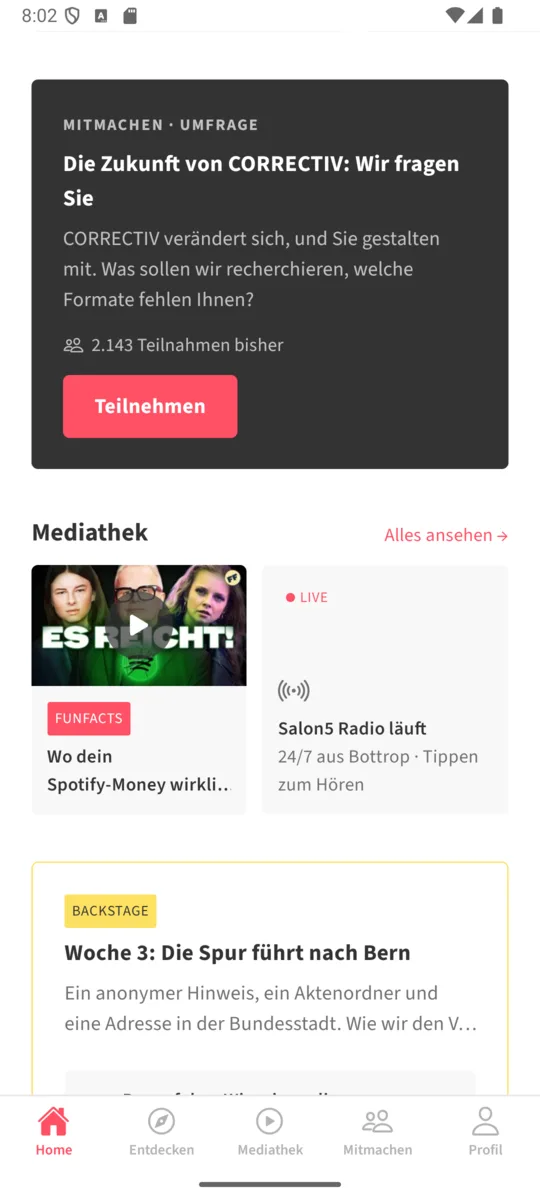
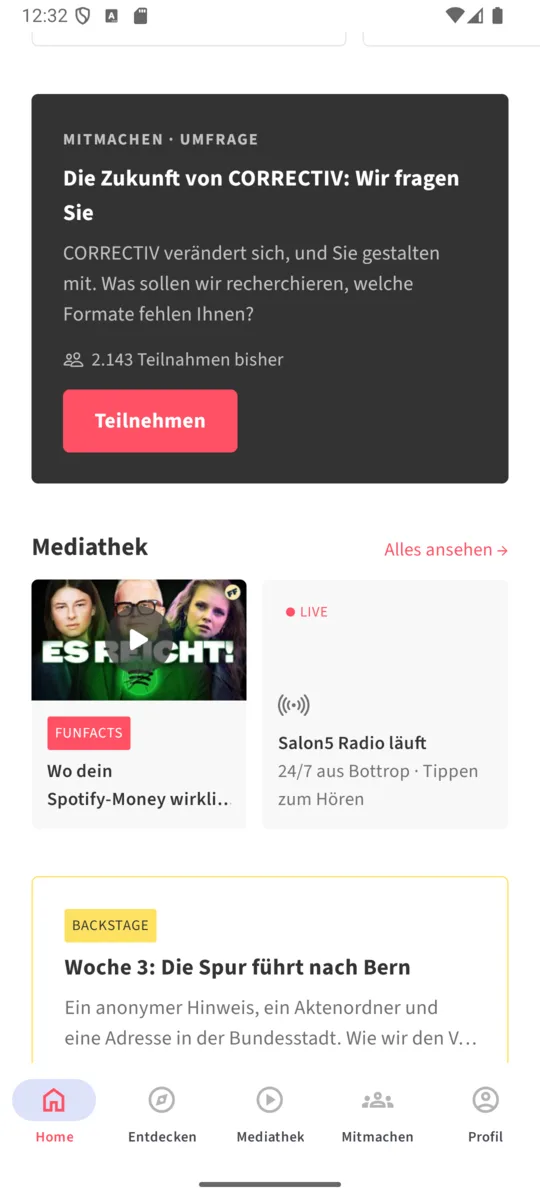
Re-shoot the screen set, and add the web tab bar beside it
The tab bar changed on Android, so every tab screen in screens/android/ was
stale at the bottom edge. Re-shot all 29 from the release APK of the previous
commit on Medium_Phone_API_36; both tours ran clean with no MISS.

screens/web/ is new and holds the five tab screens at the same step names. ADR
0013 decides that the tab bar is deliberately NOT the same on the two platforms,
and a claim like that should be checkable by looking rather than by reading the
ADR. Five shots, not 29: the rest differs only in the ways screens/README.md
already lists, and a second full set would be 24 pictures nobody compares.

ADR 0013 is updated to say what the emulator round found rather than what it
feared. It shipped warning that the native half was unrun and that the Android
mini player position should be treated as unverified; that warning was right,
both faults were in that half, and one screenshot of a playing track cashed it.
The section that promised verification now reports it, and iOS moves to being
the whole of what is left unrun — which matters more than it did, because
BottomAccessory exists only there.

Claude-Session: https://claude.ai/code/session_016bcAFK46Uq7XbLNA119N9r

diff --git a/adr/0013-native-tabs-and-a-web-tab-bar-of-its-own.md b/adr/0013-native-tabs-and-a-web-tab-bar-of-its-own.md
@@ -1,6 +1,7 @@
 # ADR 0013 — Native tabs on the phone, and a web tab bar of its own
 
-Status: accepted, 2026-08-28. Not yet verified on a device — see the last section.
+Status: accepted, 2026-08-28. Verified on an Android emulator 2026-08-29, which found
+two faults in the first version of it; iOS remains unrun. See the last two sections.
 
 ## Context
 
@@ -64,14 +65,21 @@ ours.
 
 ## Consequences
 
-**The Android height constant changed meaning, and is now a guess.** It used to be a
-value we SET — the drawn bar took `height: 56 + insets.bottom` from it, so the bar
+**The Android height constant changed meaning, and had to be measured.** It used to be
+a value we SET — the drawn bar took `height: 56 + insets.bottom` from it, so the bar
 and the mini player could not disagree. A native bar sizes itself, and native tabs
 expose no height: `useBottomTabBarHeight` belongs to the JS tabs only, and the
-documentation says plainly that layout information is unavailable. The same 56 now
-means "what Material's `BottomNavigationView` is expected to be", which is what
-react-native-screens renders underneath. If it is wrong, the mini player overlaps the
-tab bar, and nothing in `npm run check` can see it.
+documentation says plainly that layout information is unavailable.
+
+Carrying the 56 across looked free and was not. Material 3's navigation bar is
+**80dp**; 56 is the Material 2 figure, and the mini player sat 11px inside the bar
+with the selected item's pill clipped underneath it. It is 80 now, measured at
+y=2126..2337 on `Medium_Phone_API_36` at 420dpi — 211px, so 80.4dp — which agrees
+with the Material spec rather than merely with one device.
+
+Two things still move it and neither is reachable from JS: a large system font scale,
+and `labelVisibilityMode`. Under Material's `auto` the same bar measured 60dp, because
+dropping the labels makes it shorter.
 
 **All five tabs now mount eagerly.** Native tabs do not support lazy loading. The JS
 tabs mounted a tab on first visit; five screens now mount at startup, including the
@@ -83,6 +91,16 @@ slower. Measuring that needs a device.
 the app has exactly five. A sixth is a redesign, not an edit. The triggers are
 written out rather than mapped so that this is visible where someone would add one.
 
+**Every destination keeps its label, which took saying so.** Material's default `auto`
+drops the labels of unselected items once there are four or more — with five tabs that
+left four of five destinations as an icon and nothing else, and `Entdecken` (a compass)
+and `Mitmachen` (three figures) are the two nobody can name from the glyph.
+`labelVisibilityMode="labeled"` is one of Material's own four modes and what Material
+3's navigation-bar guidance asks for; `auto`'s behaviour is the Material 2 rule it
+inherited. So this is still the platform's bar, configured — the same line this ADR
+draws for colour. It also keeps the two tab bars legible in the same way, which is
+worth something when they are meant to be one product.
+
 **The API is alpha.** `unstable-native-tabs` is the real import path, and Expo says
 the API is subject to change. The web half of this decision is insulated from that;
 the native half is not.
@@ -92,18 +110,39 @@ screen is a `FlatList` today — [ADR 0012](0012-a-list-virtualizer-for-the-unbo
 converted two pushed routes, not tab roots — so this costs nothing yet. It is a
 constraint on where the next virtualized list may go.
 
+## What the emulator round found
+
+This decision shipped its first version with a warning that none of the native half
+had been run, and that the Android mini player position should be treated as
+unverified. Both faults it then found were in exactly that half, and neither was
+visible to `npm run check`, to the typechecker, or to the web export:
+
+- **The mini player sat inside the tab bar**, clipping the selected item's pill,
+  because 56 was Material 2's height and the bar is 80dp.
+- **Four of five destinations had no label**, because Material's `auto` drops them
+  past three items.
+
+Both are fixed above. The point worth keeping is that the warning was right and
+specific, and the thing that cashed it was one screenshot of a playing track. This is
+what [TROUBLESHOOTING.md](../TROUBLESHOOTING.md) means by a green check not being
+evidence, and it is the same shape as every other entry in
+[`screens/`](../screens/README.md): the finding survived a green build, a green
+typecheck and a green test run.
+
+The set in [`screens/android/`](../screens/) was re-shot from a release APK afterwards,
+and [`screens/web/`](../screens/web/) holds the five tab screens beside it, so the one
+part of the app this ADR deliberately makes different on the two platforms can be
+compared by looking.
+
 ## What this has not delivered
 
-**None of the native half has been run.** The web export was rebuilt and looked at,
-in both appearance settings, and it is unchanged — which verifies only that the
-platform split is clean and that the `js-tabs` import swap is transparent. The native
-tab bar, the SF Symbols, the Material Symbols, the `BottomAccessory` and the Android
-height constant have been read from the installed source and typechecked against
-`sf-symbols-typescript` and `expo-symbols`, and that is all. **A green check is not
-evidence here in exactly the way [TROUBLESHOOTING.md](../TROUBLESHOOTING.md) means
-it.** This needs `npm run android` and a look, and until then the Android mini player
-position in particular should be treated as unverified.
-
 **iOS has never been built at all**, which is not new (see the README's status note)
-but matters more now: the `BottomAccessory` is the one piece of this that exists only
-on the platform nobody here has run.
+but matters more here than usual: `BottomAccessory` is the one piece of this decision
+that exists ONLY on the platform nobody has run. Android's fault was found in ten
+minutes on an emulator; iOS's equivalent, if there is one, is still sitting there. The
+SF Symbol names are typechecked against `sf-symbols-typescript` and that is the whole
+of the assurance.
+
+**The eager-mount cost is unmeasured.** Five screens now mount at startup rather than
+on first visit, and the emulator round did not time it — it was looking at the tab
+bar. `useIsFocused()` is the documented mitigation if it turns out to matter.

diff --git a/screens/README.md b/screens/README.md
@@ -11,9 +11,20 @@ looking at a picture.
 ## The set
 
 [`android/`](android/) holds 29 shots, one per step, from `apps/mobile`. Shot on
-2026-08-28 from the release APK of `57c069c` on `Medium_Phone_API_36` at 1080x2400,
-after the rename and the identity change, so this is the first set of the app as
-`org.correctiv.app`. Both tours ran clean, with no `MISS`.
+2026-08-29 from the release APK of `cadd7ea` on `Medium_Phone_API_36` at 1080x2400.
+Both tours ran clean, with no `MISS`.
+
+This is the first set with the **native tab bar** ([ADR 0013](../adr/0013-native-tabs-and-a-web-tab-bar-of-its-own.md)),
+so every tab screen differs from the previous set at the bottom edge and only there:
+Material Symbols instead of Ionicons, and Material 3's pill behind the selected item.
+
+[`web/`](web/) holds the five tab screens at the same step names, from the static
+export of the same commit, shot at a 540x1200 viewport. It exists because the tab bar
+is now the one part of the app that is deliberately **not** the same on both, and a
+claim like that should be checkable by looking rather than by reading the ADR. It is
+five shots, not 29: the rest of the web build differs from Android only in the ways
+the note at the end of this file already lists, and a second full set would be 24
+pictures nobody compares.
 
 The AVD matters. Earlier sets used `Medium_Phone`, which is API 24. Dark mode does not
 exist below API 29, so that device cannot show the app's default appearance at all and
@@ -24,7 +35,7 @@ checked separately, on all four combinations of setting and device scheme, becau
 three of them are invisible here. See the appearance entry in
 [`TROUBLESHOOTING.md`](../TROUBLESHOOTING.md).
 
-Later rounds can add `ios/` and `web/` beside it under the same step names.
+Later rounds can add `ios/` beside them under the same step names.
 
 ## Shooting a set
 
@@ -55,6 +66,13 @@ back-without-history and a directly opened route can be tested at all.
 npm run build:web -w apps/mobile
 node screens/tools/serve-clean.mjs apps/mobile/dist 8099
 ```
+
+The `web/` set has no tour script, because the repo has no browser-automation
+dependency and adding one to take five pictures would be the wrong trade. They were
+shot by driving a browser at a 540x1200 viewport over `/`, `/entdecken`,
+`/mediathek`, `/mitmachen` and `/profil`, waiting for the feeds to settle, and
+converting with the same `magick` line as below. Any tool that does that produces a
+comparable set; what matters is the viewport and the step names.
 
 `serve-clean.mjs` maps `/artikel` to `artikel.html` and falls back to `404.html` the
 way GitHub Pages does. A plain `python3 -m http.server` does neither, and Expo Router

diff --git a/adr/README.md b/adr/README.md
@@ -17,7 +17,7 @@ is the way it is; [`../ARCHITECTURE.md`](../ARCHITECTURE.md) describes *what* it
 | [0010](0010-design-tokens-as-a-shared-package.md) | The design tokens as a shared package | accepted |
 | [0011](0011-naming-the-app-for-release.md) | Naming the app for release, and letting the old host go | accepted; retires two of 0007's |
 | [0012](0012-a-list-virtualizer-for-the-unbounded-lists.md) | A list virtualizer, for the two lists that need one | accepted |
-| [0013](0013-native-tabs-and-a-web-tab-bar-of-its-own.md) | Native tabs on the phone, and a web tab bar of its own | accepted; **not yet verified on a device** |
+| [0013](0013-native-tabs-and-a-web-tab-bar-of-its-own.md) | Native tabs on the phone, and a web tab bar of its own | accepted; verified on Android, iOS unrun |
 
 Seven notes for readers of the older ones:
 
